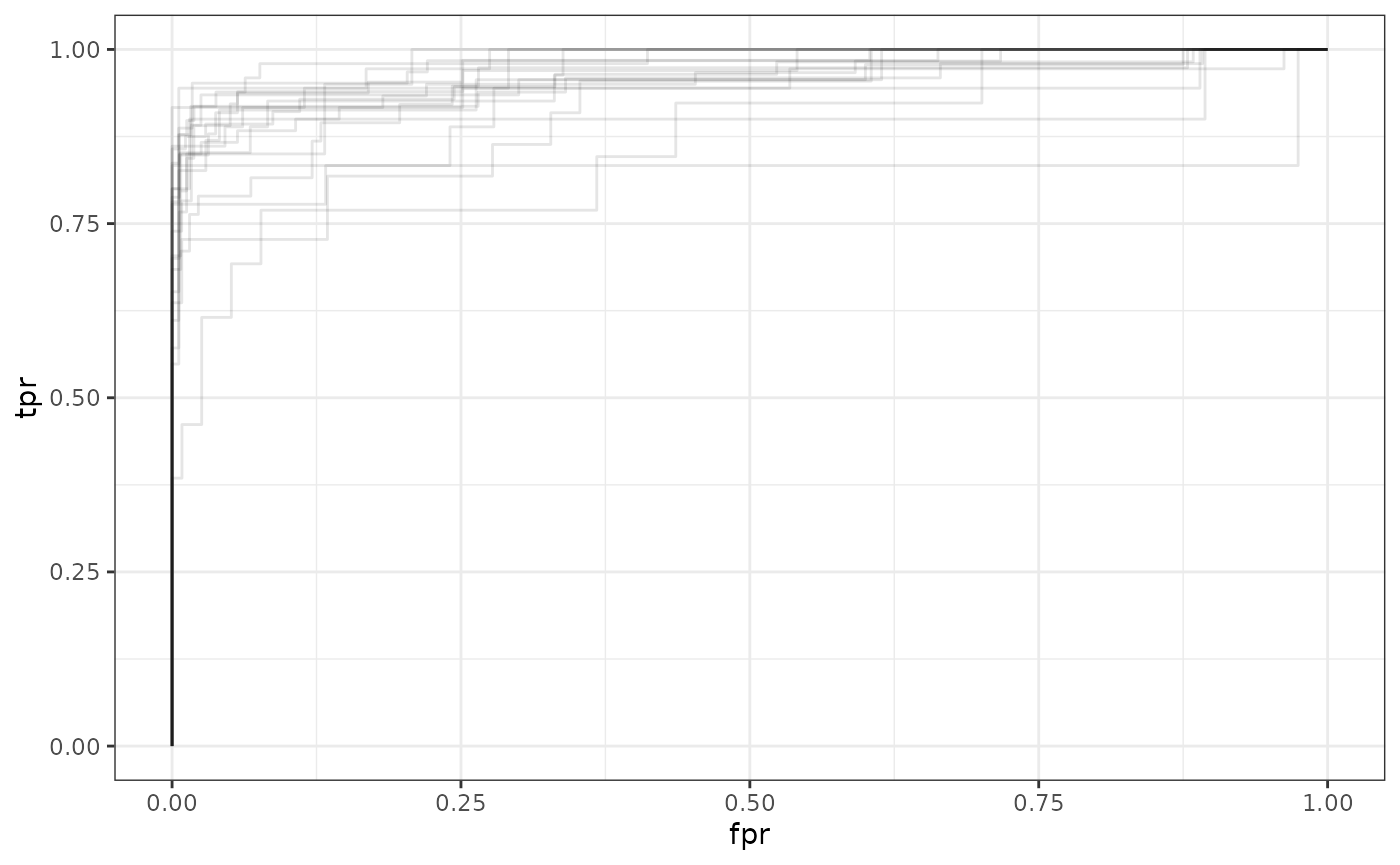
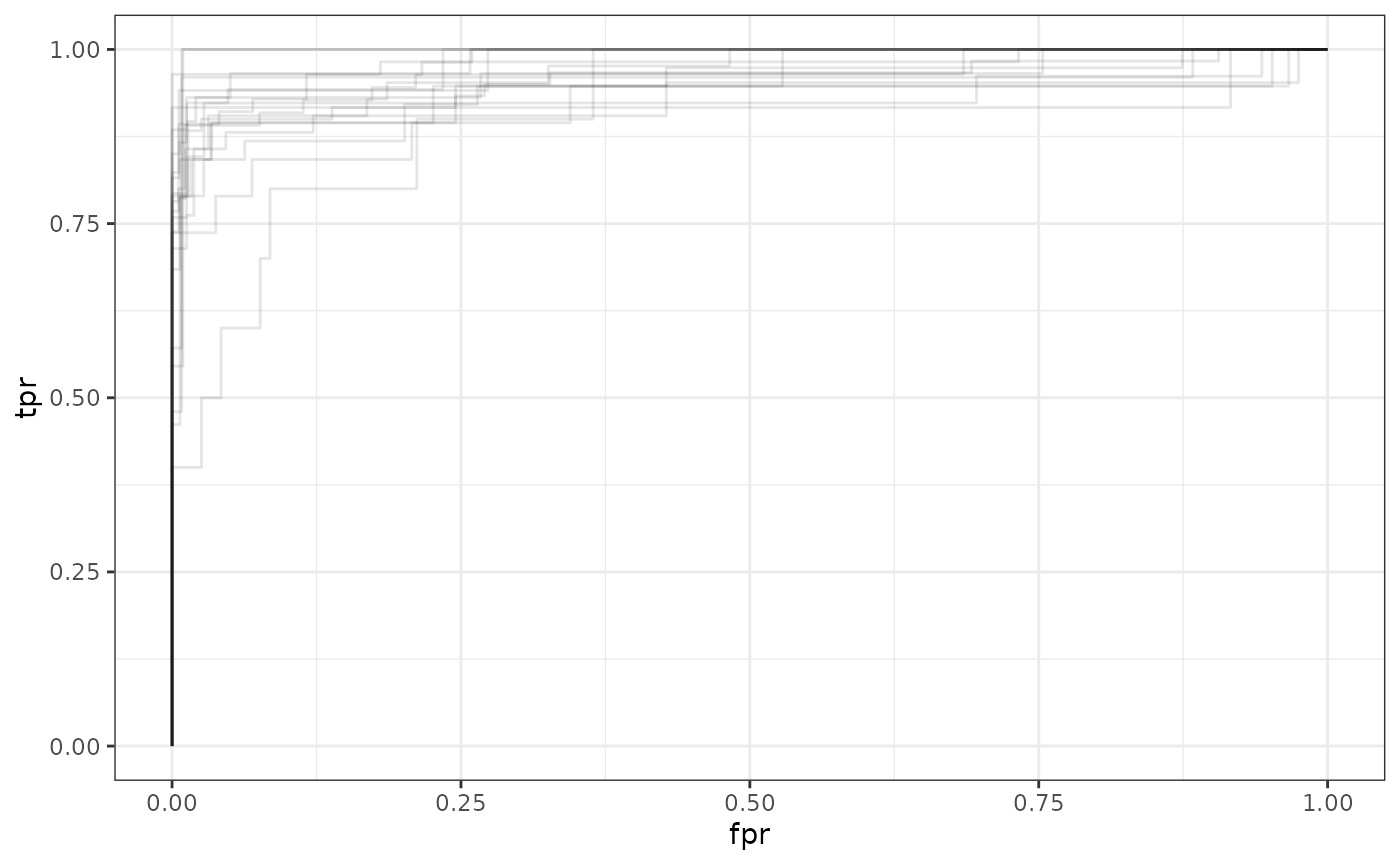
Deploying to gh-pages from @ valeriehan6/scoreLR@ac9a5fc18f25137a83ef377ea095a0aa841d954b 🚀

Changed region(s): [[0.1229, 0.0312, 0.9214, 0.4994], [0.3993, 0.1873, 0.43, 0.2497]]

diff --git a/articles/scoreLR.html b/articles/scoreLR.html
@@ -355,48 +355,49 @@ all four methods. We display this below.</p>
 <code class="sourceCode R"><span><span class="va">results</span> <span class="op">&lt;-</span> <span class="fu"><a href="../reference/slr_results.html">slr_results</a></span><span class="op">(</span><span class="va">shoedata_split</span>, </span>
 <span>                       method <span class="op">=</span> <span class="fu"><a href="https://rdrr.io/r/base/c.html" class="external-link">c</a></span><span class="op">(</span><span class="st">"IgnoreDependence"</span>, <span class="st">"StrictIndependentSet"</span>,</span>
 <span>                                  <span class="st">"AverageFeatures"</span>, <span class="st">"MultipleKDE"</span><span class="op">)</span><span class="op">)</span></span>
-<span><span class="co">#&gt; [1] "ROC_values not calculated4, 14"</span></span>
 <span></span>
 <span><span class="fu"><a href="https://rdrr.io/r/utils/str.html" class="external-link">str</a></span><span class="op">(</span><span class="va">results</span><span class="op">)</span></span>
 <span><span class="co">#&gt; List of 4</span></span>
 <span><span class="co">#&gt;  $ IgnoreDependence    :List of 5</span></span>
-<span><span class="co">#&gt;   ..$ KM_SLR    :'data.frame':   23 obs. of  1 variable:</span></span>
-<span><span class="co">#&gt;   .. ..$ SLR: num [1:23] 2.99e+123 2.46e+58 1.75e+39 8.75e+173 Inf ...</span></span>
-<span><span class="co">#&gt;   ..$ KNM_SLR   :'data.frame':   119 obs. of  1 variable:</span></span>
-<span><span class="co">#&gt;   .. ..$ SLR: num [1:119] 0.000329 0.000407 0.00257 0.003118 0.000193 ...</span></span>
-<span><span class="co">#&gt;   ..$ threshold : num 0.0184</span></span>
+<span><span class="co">#&gt;   ..$ KM_SLR    :'data.frame':   33 obs. of  1 variable:</span></span>
+<span><span class="co">#&gt;   .. ..$ SLR: num [1:33] Inf 1.66e+83 1.62e+185 Inf Inf ...</span></span>
+<span><span class="co">#&gt;   ..$ KNM_SLR   :'data.frame':   120 obs. of  1 variable:</span></span>
+<span><span class="co">#&gt;   .. ..$ SLR: num [1:120] 5.08e-03 1.01e-02 7.03e-03 3.26e-09 5.69e-04 ...</span></span>
+<span><span class="co">#&gt;   ..$ threshold : num 0.0185</span></span>
 <span><span class="co">#&gt;   ..$ new_SLR   : logi NA</span></span>
-<span><span class="co">#&gt;   ..$ ROC_values:'data.frame':   126 obs. of  2 variables:</span></span>
-<span><span class="co">#&gt;   .. ..$ tpr: num [1:126] 0 0.0625 0.125 0.1875 0.25 ...</span></span>
-<span><span class="co">#&gt;   .. ..$ fpr: num [1:126] 0 0 0 0 0 0 0 0 0 0 ...</span></span>
+<span><span class="co">#&gt;   ..$ ROC_values:'data.frame':   125 obs. of  2 variables:</span></span>
+<span><span class="co">#&gt;   .. ..$ tpr: num [1:125] 0 0.0769 0.1538 0.2308 0.3077 ...</span></span>
+<span><span class="co">#&gt;   .. ..$ fpr: num [1:125] 0 0 0 0 0 0 0 0 0 0 ...</span></span>
 <span><span class="co">#&gt;  $ StrictIndependentSet:List of 5</span></span>
-<span><span class="co">#&gt;   ..$ KM_SLR    :'data.frame':   23 obs. of  1 variable:</span></span>
-<span><span class="co">#&gt;   .. ..$ SLR: num [1:23] 9.12e+26 4.60e+18 6.02e+01 4.29e+28 Inf ...</span></span>
-<span><span class="co">#&gt;   ..$ KNM_SLR   :'data.frame':   119 obs. of  1 variable:</span></span>
-<span><span class="co">#&gt;   .. ..$ SLR: num [1:119] 0.000432 0.05422 0.003895 0.007865 0.001452 ...</span></span>
-<span><span class="co">#&gt;   ..$ threshold : num 0.245</span></span>
+<span><span class="co">#&gt;   ..$ KM_SLR    :'data.frame':   33 obs. of  1 variable:</span></span>
+<span><span class="co">#&gt;   .. ..$ SLR: num [1:33] Inf Inf Inf Inf Inf ...</span></span>
+<span><span class="co">#&gt;   ..$ KNM_SLR   :'data.frame':   120 obs. of  1 variable:</span></span>
+<span><span class="co">#&gt;   .. ..$ SLR: num [1:120] 6.47e-03 1.50e-02 5.74e-03 7.75e-10 3.10e-03 ...</span></span>
+<span><span class="co">#&gt;   ..$ threshold : num 0.0153</span></span>
 <span><span class="co">#&gt;   ..$ new_SLR   : logi NA</span></span>
-<span><span class="co">#&gt;   ..$ ROC_values:'data.frame':   130 obs. of  2 variables:</span></span>
-<span><span class="co">#&gt;   .. ..$ tpr: num [1:130] 0 0.0526 0.1053 0.1053 0.1579 ...</span></span>
-<span><span class="co">#&gt;   .. ..$ fpr: num [1:130] 0 0 0 0.0084 0.0084 ...</span></span>
+<span><span class="co">#&gt;   ..$ ROC_values:'data.frame':   113 obs. of  2 variables:</span></span>
+<span><span class="co">#&gt;   .. ..$ tpr: num [1:113] 0 0 0 0 0 0 0 0 0 0 ...</span></span>
+<span><span class="co">#&gt;   .. ..$ fpr: num [1:113] 0 0.0084 0.0168 0.0252 0.0336 ...</span></span>
 <span><span class="co">#&gt;  $ AverageFeatures     :List of 5</span></span>
-<span><span class="co">#&gt;   ..$ KM_SLR    :'data.frame':   4 obs. of  1 variable:</span></span>
-<span><span class="co">#&gt;   .. ..$ SLR: num [1:4] Inf Inf Inf Inf</span></span>
+<span><span class="co">#&gt;   ..$ KM_SLR    :'data.frame':   6 obs. of  1 variable:</span></span>
+<span><span class="co">#&gt;   .. ..$ SLR: num [1:6] Inf Inf 1.13e+172 2.24e+18 Inf ...</span></span>
 <span><span class="co">#&gt;   ..$ KNM_SLR   :'data.frame':   14 obs. of  1 variable:</span></span>
-<span><span class="co">#&gt;   .. ..$ SLR: num [1:14] 3.24e-04 4.56e-04 2.21e+02 1.73e-13 6.50e-03 ...</span></span>
-<span><span class="co">#&gt;   ..$ threshold : num 0.192</span></span>
+<span><span class="co">#&gt;   .. ..$ SLR: num [1:14] 6.57e-03 4.96e-05 2.24e-04 2.28e-02 1.40e+01 ...</span></span>
+<span><span class="co">#&gt;   ..$ threshold : num 0.358</span></span>
 <span><span class="co">#&gt;   ..$ new_SLR   : logi NA</span></span>
-<span><span class="co">#&gt;   ..$ ROC_values: chr "ROC_values not calculated4, 14"</span></span>
+<span><span class="co">#&gt;   ..$ ROC_values:'data.frame':   18 obs. of  2 variables:</span></span>
+<span><span class="co">#&gt;   .. ..$ tpr: num [1:18] 0 0.333 0.667 0.667 1 ...</span></span>
+<span><span class="co">#&gt;   .. ..$ fpr: num [1:18] 0 0 0 0.0714 0.0714 ...</span></span>
 <span><span class="co">#&gt;  $ MultipleKDE         :List of 5</span></span>
-<span><span class="co">#&gt;   ..$ KM_SLR    :'data.frame':   23 obs. of  1 variable:</span></span>
-<span><span class="co">#&gt;   .. ..$ SLR: num [1:23] 7.97e+18 1.84e+18 1.22e+02 1.43e+21 2.18e+262 ...</span></span>
-<span><span class="co">#&gt;   ..$ KNM_SLR   :'data.frame':   119 obs. of  1 variable:</span></span>
-<span><span class="co">#&gt;   .. ..$ SLR: num [1:119] 0.000658 0.000735 0.009105 0.006529 0.000642 ...</span></span>
-<span><span class="co">#&gt;   ..$ threshold : num 0.0497</span></span>
+<span><span class="co">#&gt;   ..$ KM_SLR    :'data.frame':   33 obs. of  1 variable:</span></span>
+<span><span class="co">#&gt;   .. ..$ SLR: num [1:33] 5.02e+23 3.31e+05 1.83e+07 7.88e+253 5.18e+280 ...</span></span>
+<span><span class="co">#&gt;   ..$ KNM_SLR   :'data.frame':   120 obs. of  1 variable:</span></span>
+<span><span class="co">#&gt;   .. ..$ SLR: num [1:120] 4.72e-02 3.08e-02 1.62e-02 1.26e-06 2.64e-03 ...</span></span>
+<span><span class="co">#&gt;   ..$ threshold : num 0.034</span></span>
 <span><span class="co">#&gt;   ..$ new_SLR   : logi NA</span></span>
-<span><span class="co">#&gt;   ..$ ROC_values:'data.frame':   131 obs. of  2 variables:</span></span>
-<span><span class="co">#&gt;   .. ..$ tpr: num [1:131] 0 0.05 0.1 0.15 0.15 0.2 0.25 0.3 0.35 0.4 ...</span></span>
-<span><span class="co">#&gt;   .. ..$ fpr: num [1:131] 0 0 0 0 0.0084 ...</span></span></code></pre></div>
+<span><span class="co">#&gt;   ..$ ROC_values:'data.frame':   146 obs. of  2 variables:</span></span>
+<span><span class="co">#&gt;   .. ..$ tpr: num [1:146] 0 0.0303 0.0606 0.0909 0.1212 ...</span></span>
+<span><span class="co">#&gt;   .. ..$ fpr: num [1:146] 0 0 0 0 0 0 0 0 0 0 ...</span></span></code></pre></div>
 <p>The output gives you a list. Each element corresponds to the output
 of the corresponding method function.</p>
 <p>You can also choose to run the method itself after splitting the data
@@ -459,8 +460,8 @@ data is provided.</p>
 <span></span>
 <span><span class="va">res</span><span class="op">$</span><span class="va">new_SLR</span></span>
 <span><span class="co">#&gt;            SLR</span></span>
-<span><span class="co">#&gt; 1 3.599915e-03</span></span>
-<span><span class="co">#&gt; 2 2.187785e+46</span></span></code></pre></div>
+<span><span class="co">#&gt; 1 3.146515e-02</span></span>
+<span><span class="co">#&gt; 2 1.707338e+49</span></span></code></pre></div>
 </div>
 </div>
 <div class="section level2">

diff --git a/reference/dep_split.html b/reference/dep_split.html
@@ -76,12 +76,12 @@ Note that this assumes that the KM and KNM data include the same sources/depende
     <h2 id="ref-examples">Examples<a class="anchor" aria-label="anchor" href="#ref-examples"></a></h2>
     <div class="sourceCode"><pre class="sourceCode r"><code><span class="r-in"><span><span class="fu"><a href="https://rdrr.io/r/utils/head.html" class="external-link">head</a></span><span class="op">(</span><span class="fu">dep_split</span><span class="op">(</span><span class="va">shoedata</span>, <span class="fl">.75</span><span class="op">)</span><span class="op">)</span></span></span>
 <span class="r-out co"><span class="r-pr">#&gt;</span>   source1 dep1 source2 dep2 clique_size med_dist_euc input_overlap train</span>
-<span class="r-out co"><span class="r-pr">#&gt;</span> 1     1_L    1     1_L    1           6      1.81890         0.218  TRUE</span>
-<span class="r-out co"><span class="r-pr">#&gt;</span> 2     1_L    1     1_L    1           6      1.41041         0.200  TRUE</span>
-<span class="r-out co"><span class="r-pr">#&gt;</span> 3     1_L    1     1_L    1           6      1.80102         0.102  TRUE</span>
-<span class="r-out co"><span class="r-pr">#&gt;</span> 4     1_L    1     1_L    1           8      1.08331         0.258  TRUE</span>
-<span class="r-out co"><span class="r-pr">#&gt;</span> 5     1_L    1     1_L    1           5      1.93781         0.008  TRUE</span>
-<span class="r-out co"><span class="r-pr">#&gt;</span> 6     1_L    1     1_L    1          12      0.91193         0.400  TRUE</span>
+<span class="r-out co"><span class="r-pr">#&gt;</span> 1   103_L  103   103_L  103           9      1.11631         0.420  TRUE</span>
+<span class="r-out co"><span class="r-pr">#&gt;</span> 2   103_L  103   103_L  103           6      1.32526         0.372  TRUE</span>
+<span class="r-out co"><span class="r-pr">#&gt;</span> 3   103_L  103   103_L  103           5      1.55036         0.186  TRUE</span>
+<span class="r-out co"><span class="r-pr">#&gt;</span> 4   103_L  103   103_L  103          10      0.89472         0.472  TRUE</span>
+<span class="r-out co"><span class="r-pr">#&gt;</span> 5   103_L  103   103_L  103           5      1.29865         0.006  TRUE</span>
+<span class="r-out co"><span class="r-pr">#&gt;</span> 6   103_L  103   103_L  103           6      0.88348         0.160  TRUE</span>
 </code></pre></div>
     </div>
   </main><aside class="col-md-3"><nav id="toc"><h2>On this page</h2>

diff --git a/reference/strict_indep_set.html b/reference/strict_indep_set.html
@@ -119,6 +119,7 @@ KM_train, KM_test, KNM_train, KNM_train should all be data frames containing col
 <span class="r-in"><span>                      input_overlap <span class="op">=</span> <span class="fu"><a href="https://rdrr.io/r/base/c.html" class="external-link">c</a></span><span class="op">(</span><span class="fl">.01</span>, <span class="fl">0.26</span><span class="op">)</span><span class="op">)</span></span></span>
 <span class="r-in"><span></span></span>
 <span class="r-in"><span><span class="va">res</span> <span class="op">&lt;-</span> <span class="fu">strict_indep_set</span><span class="op">(</span><span class="va">KM_train</span>, <span class="va">KM_test</span>, <span class="va">KNM_train</span>, <span class="va">KNM_test</span>, <span class="va">unknown</span><span class="op">)</span></span></span>
+<span class="r-out co"><span class="r-pr">#&gt;</span> [1] "ROC_values not calculated0, 93"</span>
 </code></pre></div>
     </div>
   </main><aside class="col-md-3"><nav id="toc"><h2>On this page</h2>
